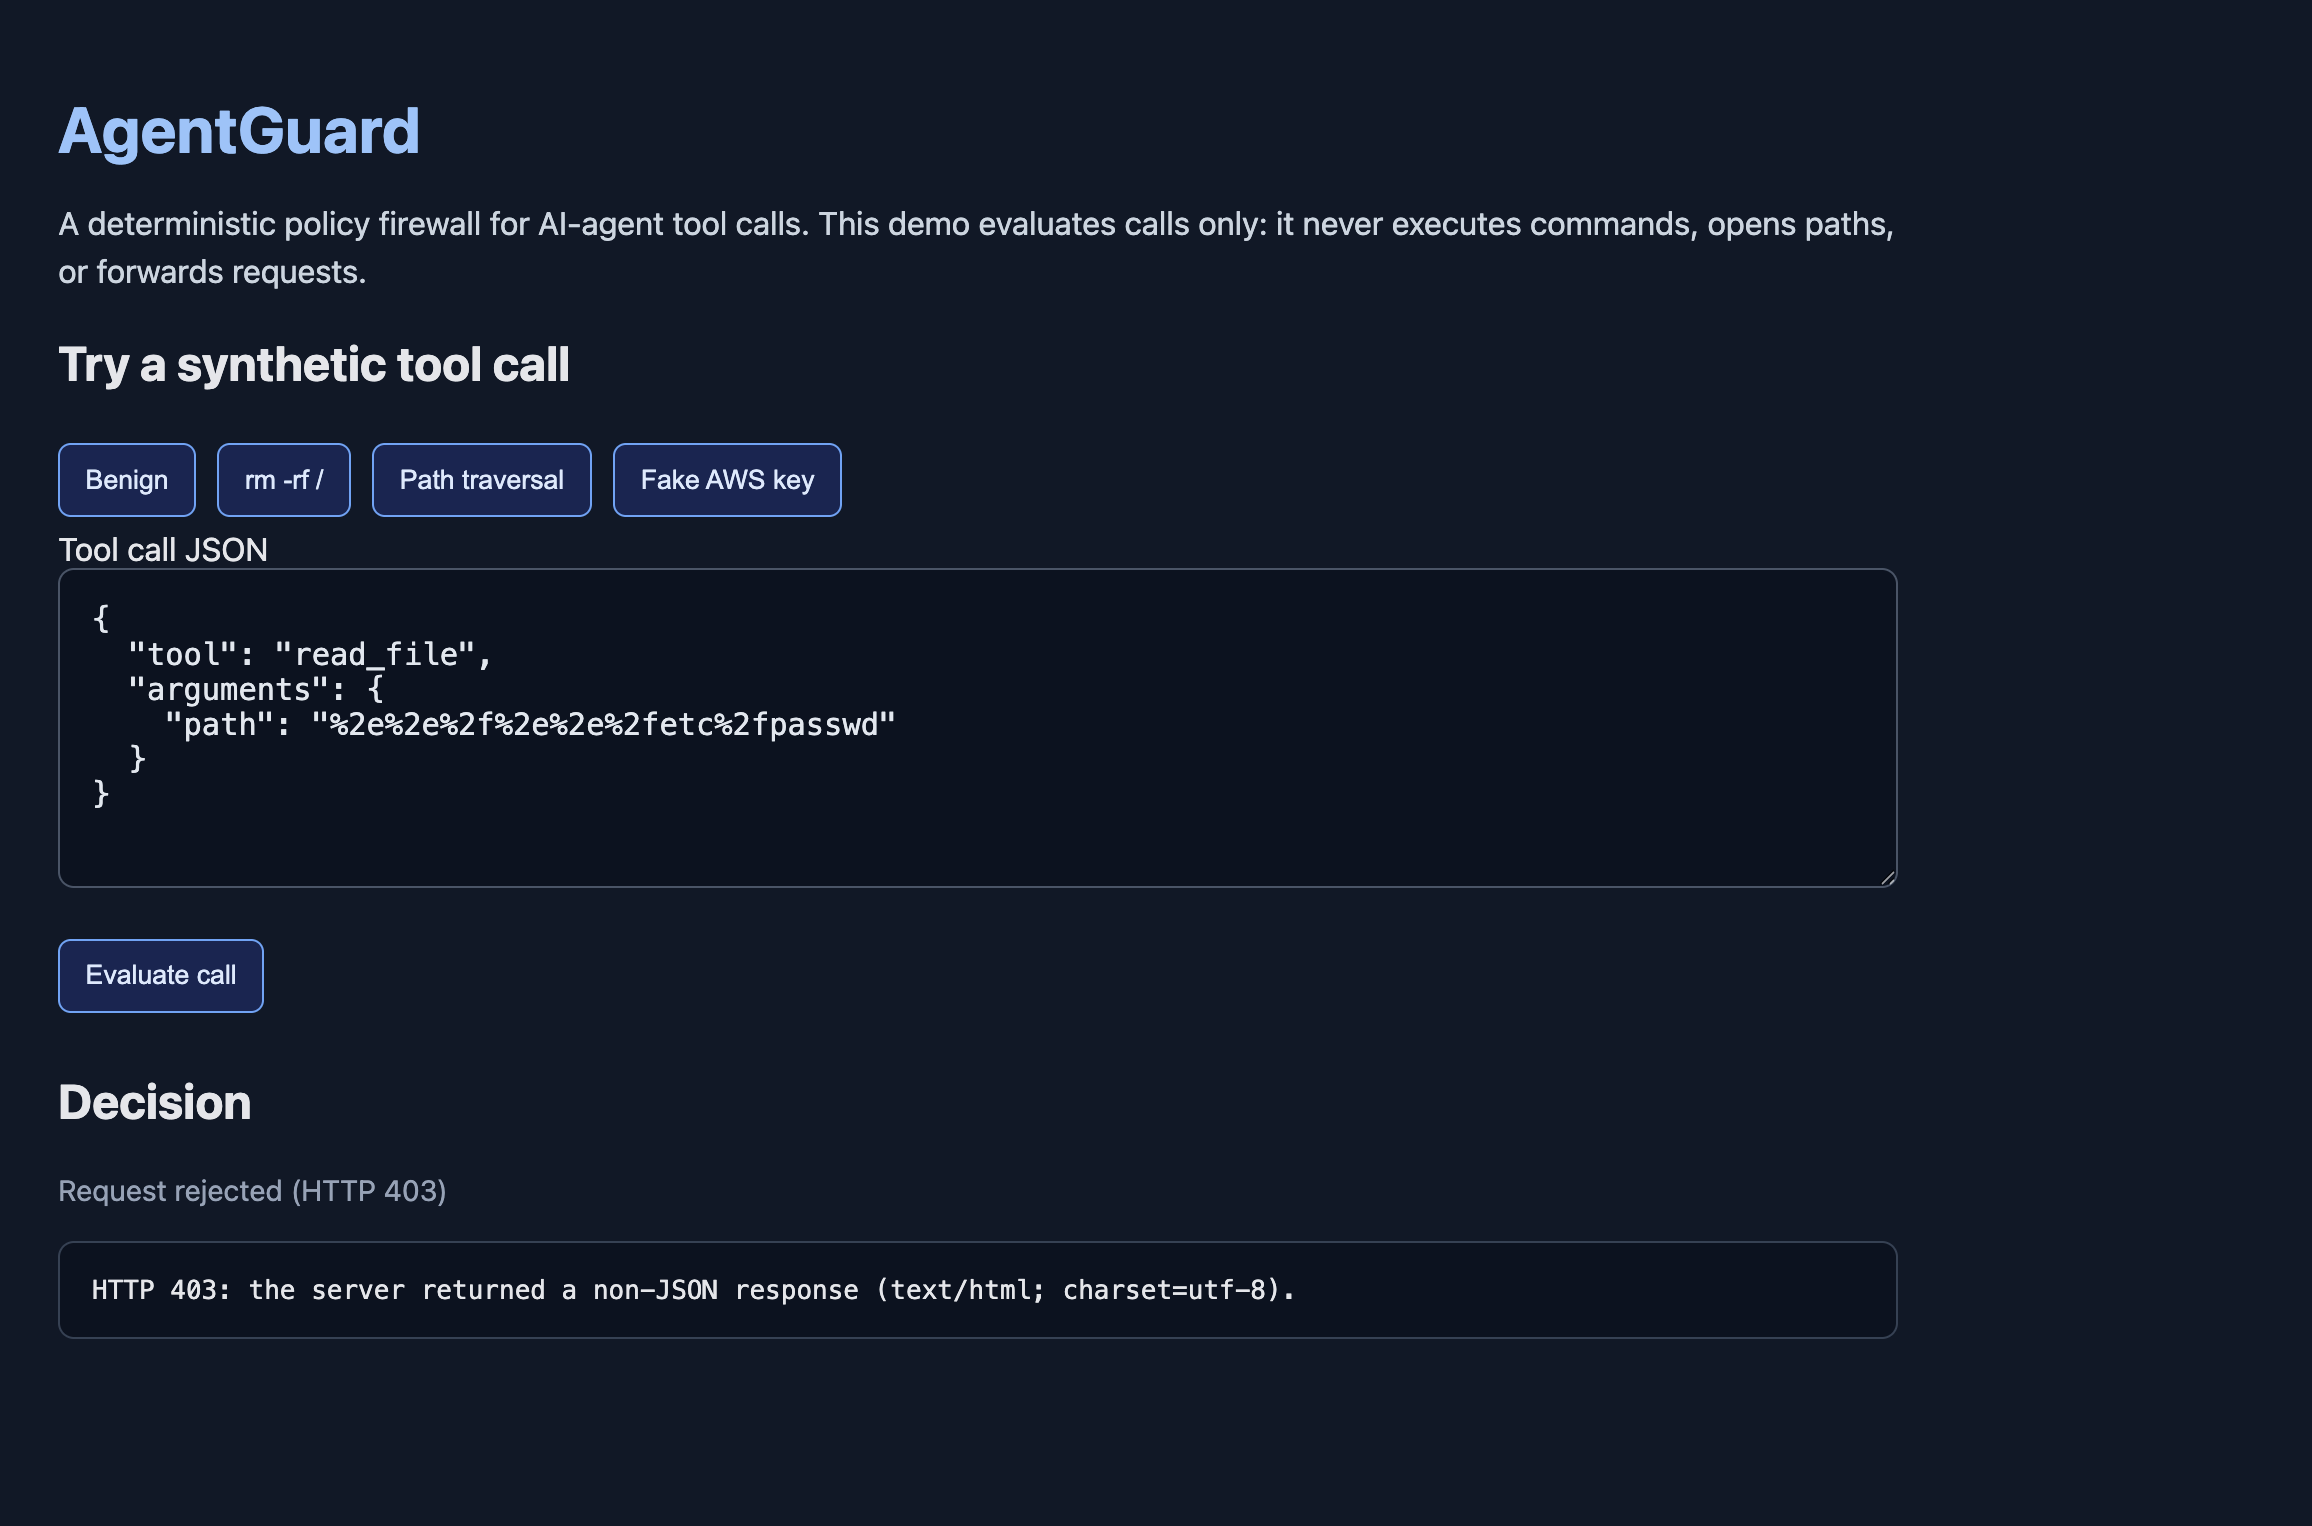
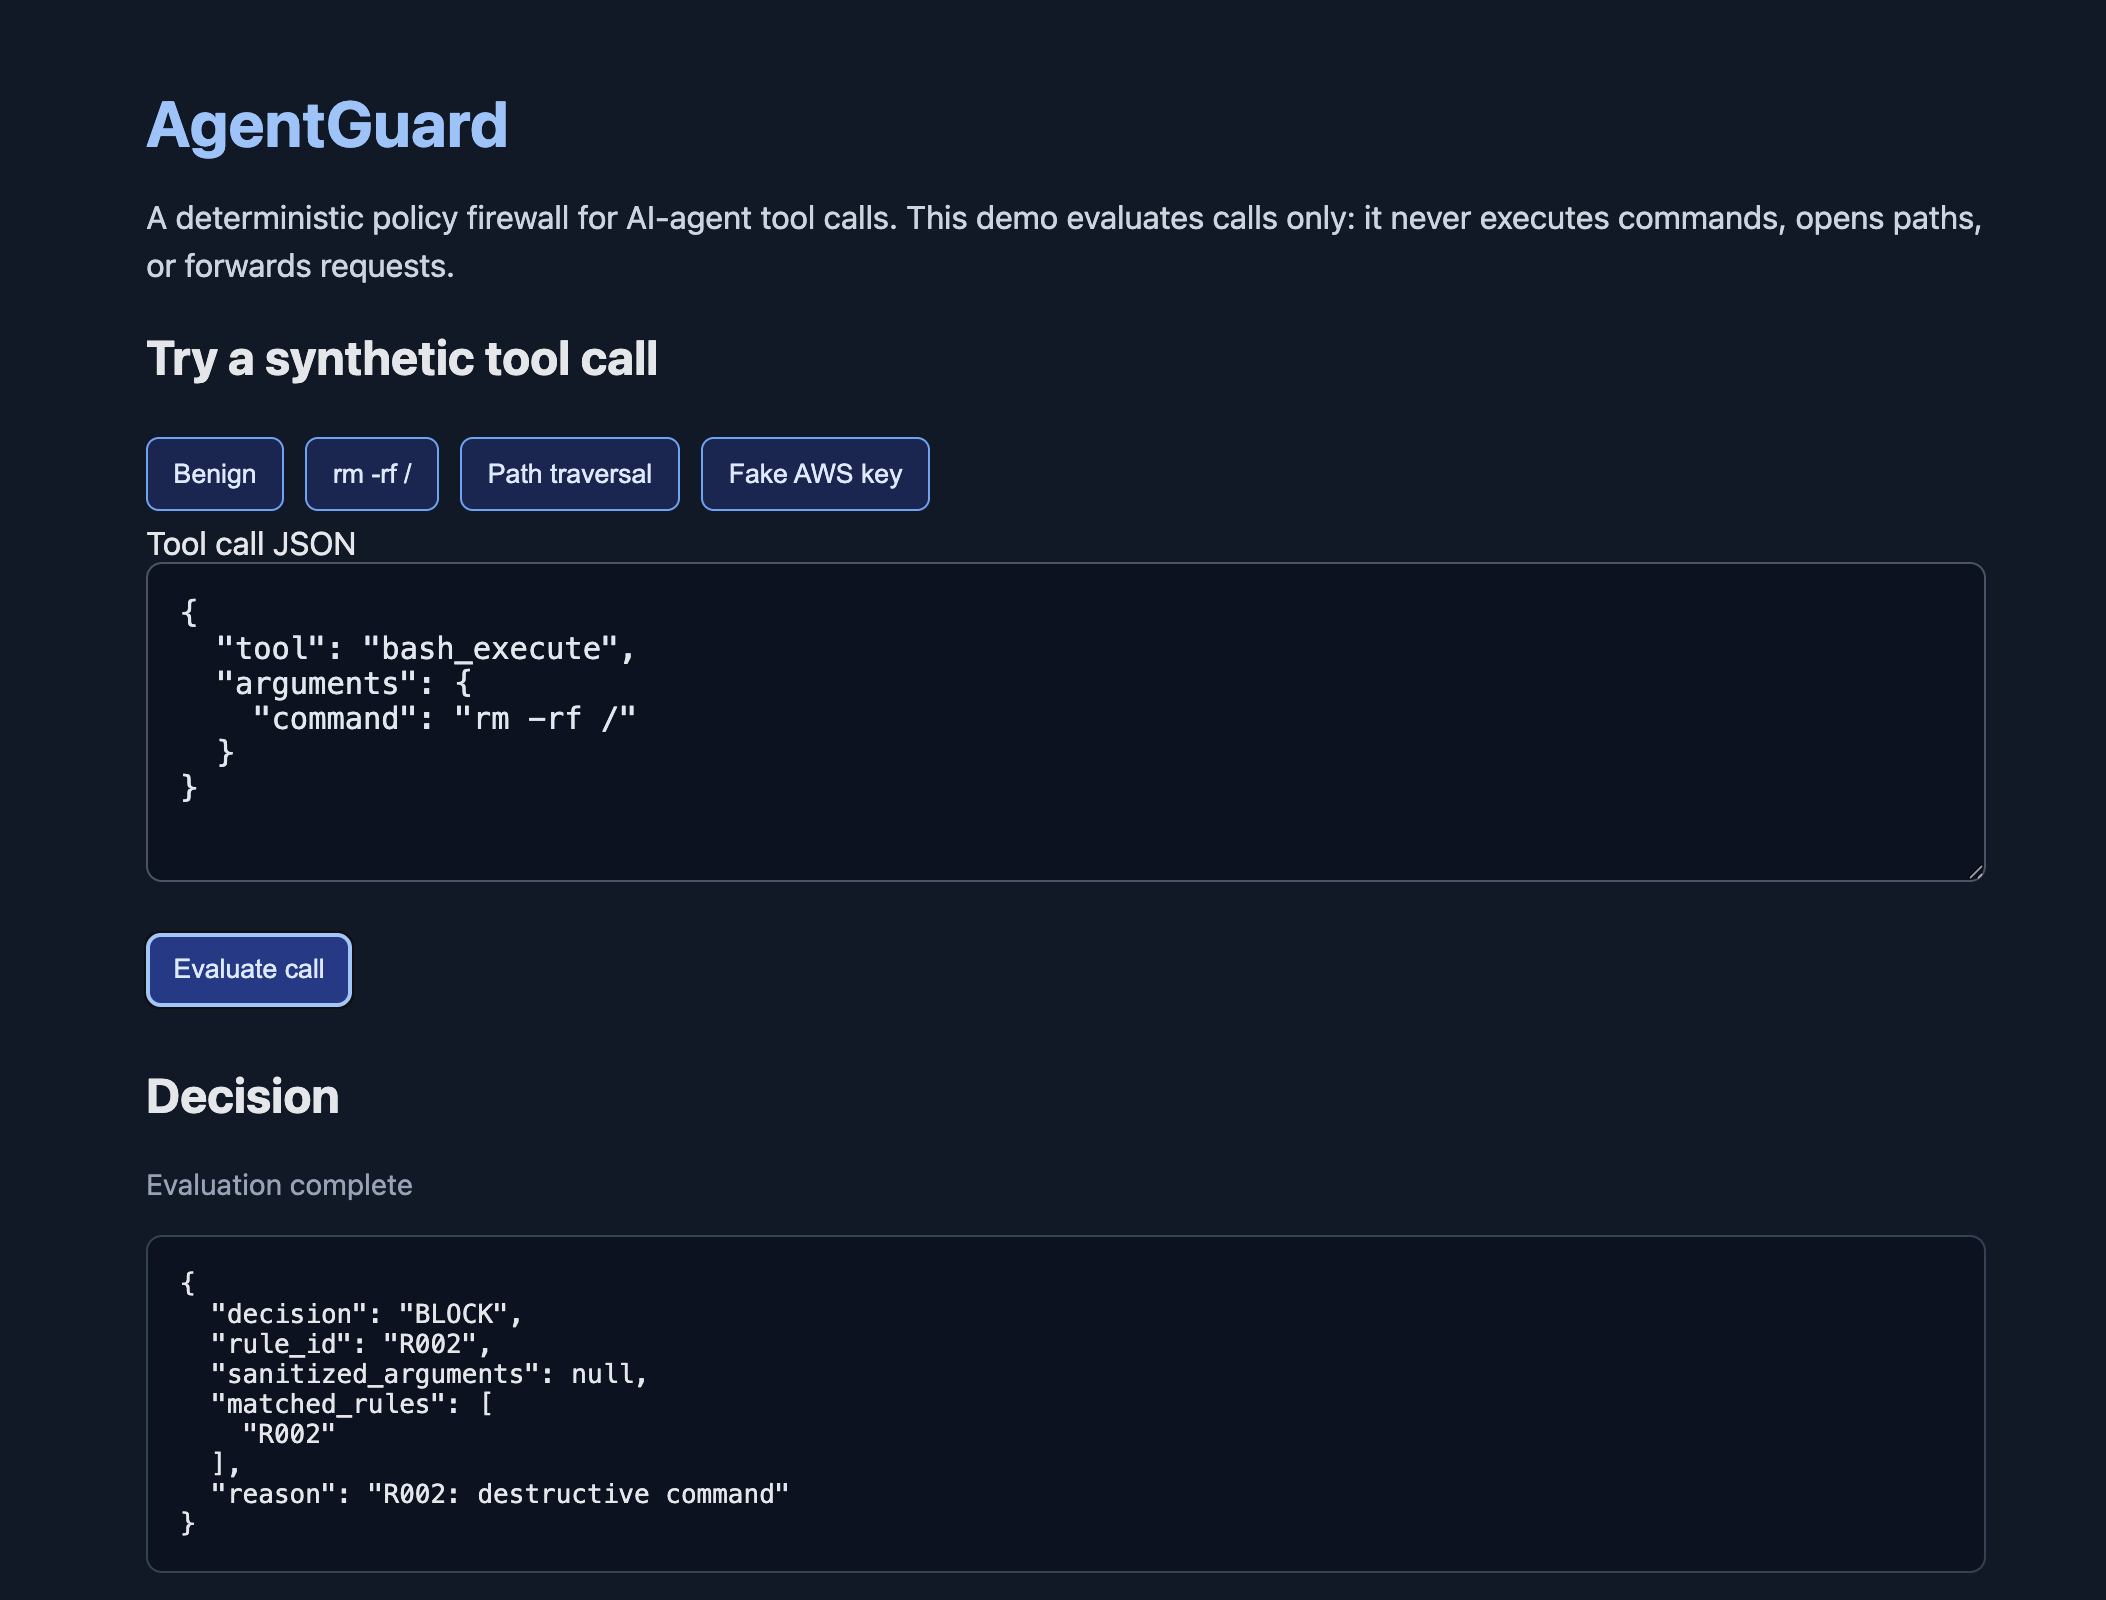
docs: replace live demo screenshot in 30 seconds section

diff --git a/README.md b/README.md
@@ -43,7 +43,7 @@ record, and returns the decision JSON. The three possible outcomes are:
 - **`BLOCK`** — the call is stopped and never forwarded.
 
 ## Try it in 30 seconds
-![AgentGuard Live Quickstart](docs/assets/live_demo.png)
+![AgentGuard Live Web UI](docs/assets/live_demo.png)
 The public demo runs at
 [https://agentguard-tdob.onrender.com](https://agentguard-tdob.onrender.com).
 The free Render instance sleeps when idle, so the first request after
